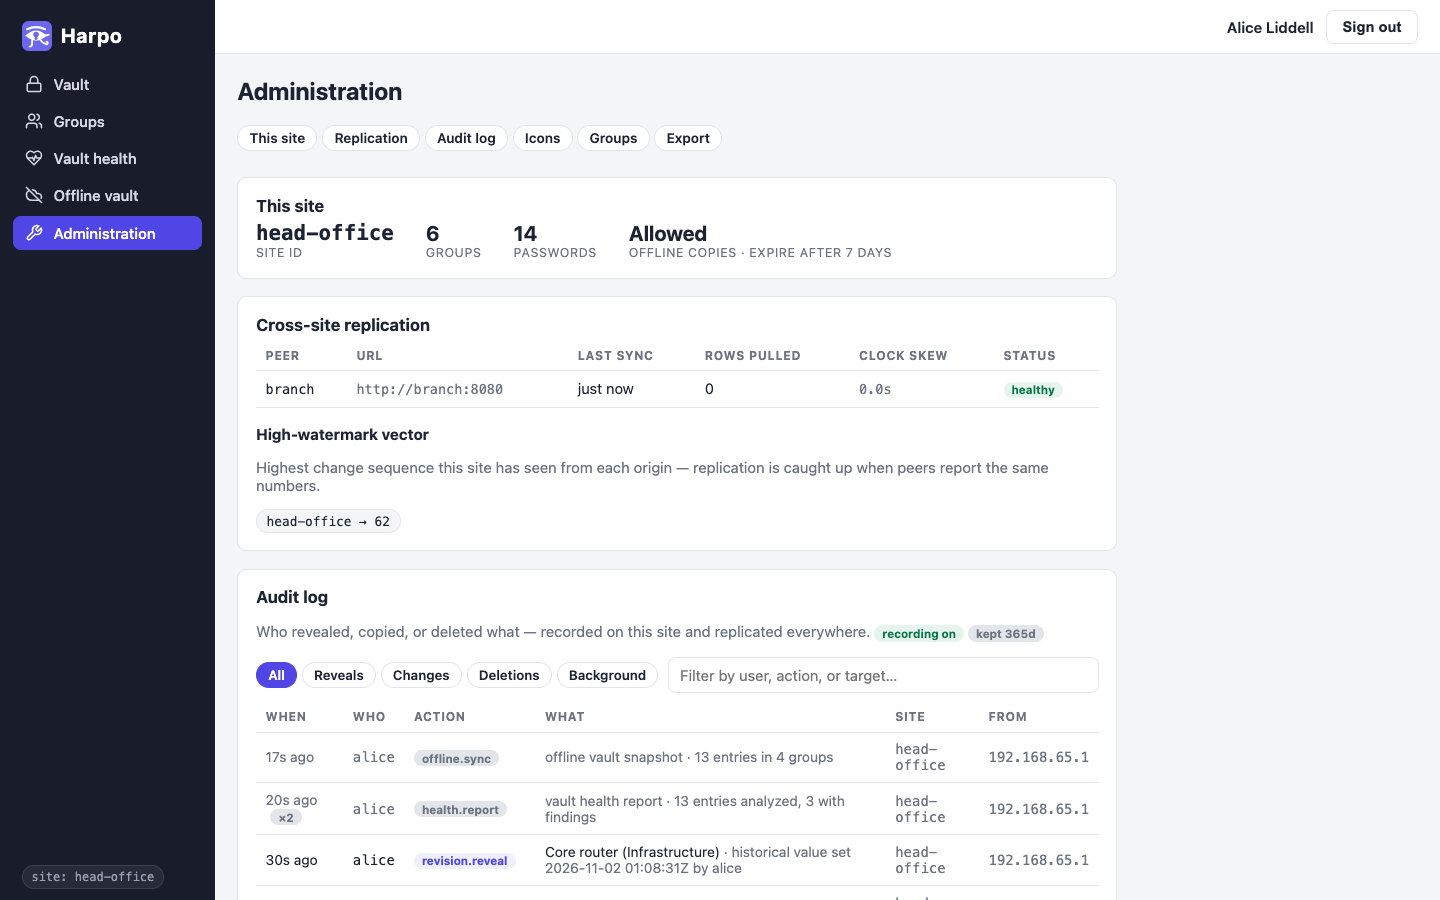
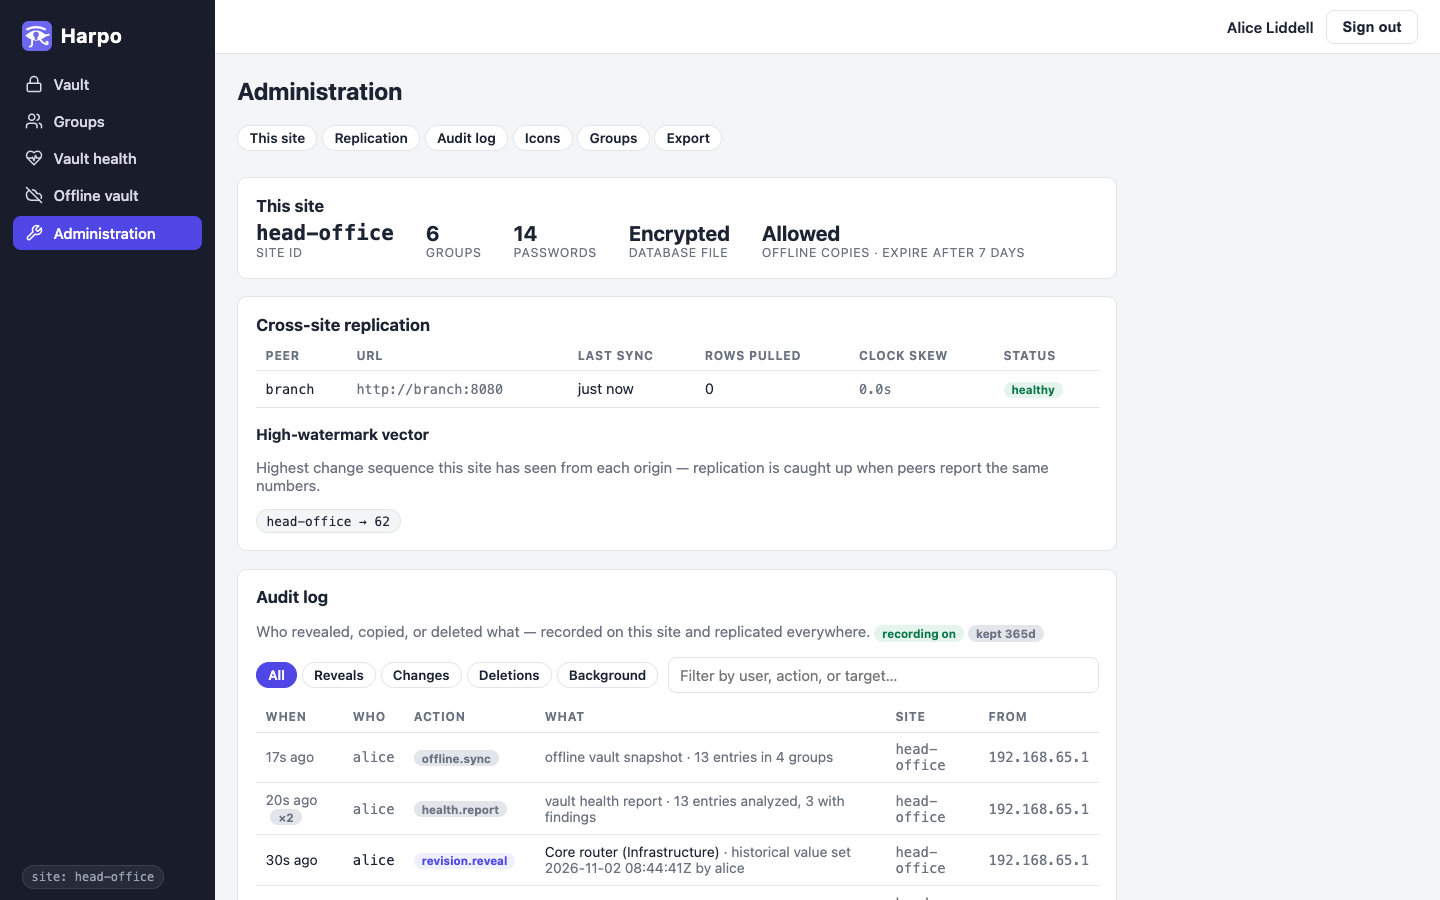
Show whether the database file is encrypted
A key that came through blank left a site unencrypted with nothing to show
for it, and the only way to check was to look at the file. Harpo now logs the
state on every start, warns when a key was supplied but is blank, and shows
the state on the Administration page, read from the file itself.

A full disk during encryption now gives a clear message and removes the
partial copy. sqlcipher_export reports it as a generic error 1, so it is
recognised by SQLite's text as well as by the code.

The README also covers the free space needed, how to check, and that turning
encryption on later does not reach older backups or disk blocks.

Changed region(s): [[0.4375, 0.2489, 0.5938, 0.3111], [0.4375, 0.9333, 0.5312, 0.9956], [0.375, 0.9333, 0.4062, 0.9644]]

diff --git a/tests/e2e/ui.e2e.js b/tests/e2e/ui.e2e.js
@@ -613,6 +613,8 @@ async function groupId(page) {
             nav: [...document.querySelectorAll(".section-nav a")].map((a) => a.getAttribute("href").split("#")[1]),
             sticky: getComputedStyle(document.querySelector(".section-nav")).position,
             offline: document.querySelector("#site .stat:last-child")?.textContent.replace(/\s+/g, " ").trim(),
+            dbFile: [...document.querySelectorAll("#site .stat")].map((s) => s.textContent.replace(/\s+/g, " ").trim())
+                .find((t) => t.includes("database file")),
             chips: [...document.querySelectorAll(".filter-chips .chip")].map((c) => c.textContent.trim()).join(","),
             folded: document.querySelectorAll(".audit-repeat").length,
             deletedShown: [...document.querySelectorAll("section.panel")]
@@ -622,6 +624,7 @@ async function groupId(page) {
             admin.nav.length === 6 && admin.nav.includes("export") && admin.sticky === "sticky"
             && await page.evaluate((ids) => ids.every((i) => document.getElementById(i)), admin.nav), admin.nav.join(","));
         check("offline stat is spelled out", /^(Allowed offline copies · expire after \d+ days|Off offline copies)$/.test(admin.offline || ""), String(admin.offline));
+        check("database file encryption is shown", /^(Encrypted database file|Not encrypted database file · passwords are still encrypted)$/.test(admin.dbFile || ""), String(admin.dbFile));
         check("audit log folds repeated events and offers categories",
             admin.chips === "All,Reveals,Changes,Deletions,Background" && admin.folded > 0, `${admin.chips}; folded rows: ${admin.folded}`);
         check("deleted groups list is capped", admin.deletedShown <= 5, `shown: ${admin.deletedShown}`);

diff --git a/src/Harpo/Data/DbEncryption.cs b/src/Harpo/Data/DbEncryption.cs
@@ -5,12 +5,22 @@ namespace Harpo.Data;
 public sealed record DbEncryptionOptions(
     string? DatabaseKey,
     string? PreviousDatabaseKey,
-    bool RemoveEncryption)
+    bool RemoveEncryption,
+    bool KeyLeftBlank = false)
 {
     public static DbEncryptionOptions FromConfiguration(IConfiguration configuration) => new(
         Nullify(configuration["Harpo:DatabaseKey"]),
         Nullify(configuration["Harpo:PreviousDatabaseKey"]),
-        configuration.GetValue("Harpo:RemoveDatabaseEncryption", false));
+        configuration.GetValue("Harpo:RemoveDatabaseEncryption", false),
+        IsKeyLeftBlank(configuration));
+
+    // appsettings.json ships a blank key, so a blank value alone means nothing. It
+    // is a mistake only when someone supplied it: "${HARPO_DATABASE_KEY}" with the
+    // variable unset, or an empty secret file.
+    private static bool IsKeyLeftBlank(IConfiguration configuration) =>
+        string.IsNullOrWhiteSpace(configuration["Harpo:DatabaseKey"])
+        && (Environment.GetEnvironmentVariable("Harpo__DatabaseKey") is not null
+            || !string.IsNullOrWhiteSpace(configuration["Harpo:DatabaseKey:File"]));
 
     private static string? Nullify(string? value) =>
         string.IsNullOrWhiteSpace(value) ? null : value;
@@ -39,6 +49,8 @@ public sealed record DbEncryptionOptions(
 /// </summary>
 public static class DbEncryption
 {
+    private const int SqliteFull = 13;
+
     private static readonly byte[] PlainHeader = "SQLite format 3\0"u8.ToArray();
 
     /// <summary>Returns the connection string the app should actually use (adds Password when encrypting).</summary>
@@ -120,10 +132,50 @@ public static class DbEncryption
                 : ", and neither does Harpo:PreviousDatabaseKey."));
     }
 
+    /// <summary>
+    /// What the file on disk actually is, read from the file rather than taken from
+    /// the configuration. Null when there is no file to look at.
+    /// </summary>
+    public static async Task<bool?> IsEncryptedAsync(string rawConnectionString)
+    {
+        var path = new SqliteConnectionStringBuilder(rawConnectionString).DataSource;
+        if (string.IsNullOrEmpty(path) || path == ":memory:" || !File.Exists(path))
+        {
+            return null;
+        }
+        return !await IsPlaintextAsync(path);
+    }
+
+    /// <summary>
+    /// Says on every start whether the file is encrypted. Without this, a key that
+    /// came through blank leaves the site unencrypted with nothing to show for it.
+    /// </summary>
+    public static async Task LogStateAsync(string rawConnectionString, DbEncryptionOptions options, ILogger logger)
+    {
+        switch (await IsEncryptedAsync(rawConnectionString))
+        {
+            case true:
+                logger.LogInformation("The database file is encrypted (SQLCipher).");
+                break;
+            case false when options.KeyLeftBlank:
+                logger.LogWarning(
+                    "The database file is NOT encrypted: Harpo:DatabaseKey was supplied but is blank, so no key " +
+                    "was applied. If you meant to encrypt the file, check the variable or secret it comes from.");
+                break;
+            case false:
+                logger.LogInformation(
+                    "The database file is not encrypted ({Reason}). Passwords, 2FA secrets and notes are still " +
+                    "encrypted under the master key; entry names, URLs and usernames are readable in the file.",
+                    options.RemoveEncryption ? "Harpo:RemoveDatabaseEncryption is set" : "Harpo:DatabaseKey is not set");
+                break;
+        }
+    }
+
     /// <summary>An unencrypted SQLite file starts with the magic header; SQLCipher files look random.</summary>
     public static async Task<bool> IsPlaintextAsync(string path)
     {
-        await using var stream = File.OpenRead(path);
+        // Also read while the app runs, so it must not get in the way of SQLite.
+        await using var stream = new FileStream(path, FileMode.Open, FileAccess.Read, FileShare.ReadWrite | FileShare.Delete);
         if (stream.Length == 0)
         {
             return true;
@@ -162,32 +214,45 @@ public static class DbEncryption
     private static async Task ExportAsync(string path, string? sourceKey, string? targetKey)
     {
         var tempPath = path + ".recrypt-tmp";
-        foreach (var stale in new[] { tempPath, tempPath + "-wal", tempPath + "-shm" })
-        {
-            File.Delete(stale);
-        }
+        DeleteWithSidecars(tempPath);
 
         var sourceCs = new SqliteConnectionStringBuilder { DataSource = path, Password = sourceKey ?? "" }.ToString();
-        await using (var connection = new SqliteConnection(sourceCs))
+        try
         {
-            await connection.OpenAsync();
-            await using (var attach = connection.CreateCommand())
+            await using (var connection = new SqliteConnection(sourceCs))
             {
-                attach.CommandText = "ATTACH DATABASE $path AS target KEY $key";
-                attach.Parameters.AddWithValue("$path", tempPath);
-                attach.Parameters.AddWithValue("$key", targetKey ?? "");
-                await attach.ExecuteNonQueryAsync();
+                await connection.OpenAsync();
+                await using (var attach = connection.CreateCommand())
+                {
+                    attach.CommandText = "ATTACH DATABASE $path AS target KEY $key";
+                    attach.Parameters.AddWithValue("$path", tempPath);
+                    attach.Parameters.AddWithValue("$key", targetKey ?? "");
+                    await attach.ExecuteNonQueryAsync();
+                }
+                await using (var export = connection.CreateCommand())
+                {
+                    export.CommandText = "SELECT sqlcipher_export('target')";
+                    await export.ExecuteScalarAsync();
+                }
+                await using (var detach = connection.CreateCommand())
+                {
+                    detach.CommandText = "DETACH DATABASE target";
+                    await detach.ExecuteNonQueryAsync();
+                }
             }
-            await using (var export = connection.CreateCommand())
+        }
+        catch (Exception ex)
+        {
+            // The original still holds everything (closing may fold its WAL in, which
+            // changes no data). A half-written copy only takes up space, and when
+            // decrypting it holds plaintext, so it must not stay.
+            SqliteConnection.ClearAllPools();
+            DeleteWithSidecars(tempPath);
+            if (IsDiskFull(ex))
             {
-                export.CommandText = "SELECT sqlcipher_export('target')";
-                await export.ExecuteScalarAsync();
+                throw new InvalidOperationException(DiskFullMessage(path, targetKey is null ? "decrypt" : "encrypt"), ex);
             }
-            await using (var detach = connection.CreateCommand())
-            {
-                detach.CommandText = "DETACH DATABASE target";
-                await detach.ExecuteNonQueryAsync();
-            }
+            throw;
         }
         SqliteConnection.ClearAllPools();
 
@@ -198,6 +263,28 @@ public static class DbEncryption
         File.Move(tempPath, path, overwrite: true);
         File.Delete(tempPath + "-wal");
         File.Delete(tempPath + "-shm");
+    }
+
+    private static void DeleteWithSidecars(string path)
+    {
+        File.Delete(path);
+        File.Delete(path + "-wal");
+        File.Delete(path + "-shm");
+    }
+
+    // sqlcipher_export passes the failure on as a generic error 1, keeping only
+    // SQLite's text for it, so the code alone does not catch it.
+    private static bool IsDiskFull(Exception ex) =>
+        ex is SqliteException sqlite
+        && (sqlite.SqliteErrorCode == SqliteFull || sqlite.Message.Contains("database or disk is full", StringComparison.Ordinal));
+
+    private static string DiskFullMessage(string path, string verb)
+    {
+        var bytes = new FileInfo(path).Length + (File.Exists(path + "-wal") ? new FileInfo(path + "-wal").Length : 0);
+        var megabytes = Math.Ceiling(bytes / (1024d * 1024d));
+        return $"There is not enough free disk space to {verb} the database at '{path}'. Harpo writes a second copy " +
+            $"of the file first, which needs about {megabytes:0} MB free on that volume. Nothing has been lost and " +
+            "the file is as it was. Free up some space and start Harpo again.";
     }
 
     private static async Task RekeyAsync(string path, string oldKey, string newKey)
@@ -217,4 +304,17 @@ public static class DbEncryption
         }
         SqliteConnection.ClearAllPools();
     }
+}
+
+/// <summary>Lets the Administration page show what the database file is.</summary>
+public sealed class DbEncryptionStatus
+{
+    private readonly string _rawConnectionString;
+
+    public DbEncryptionStatus(string rawConnectionString)
+    {
+        _rawConnectionString = rawConnectionString;
+    }
+
+    public Task<bool?> IsEncryptedAsync() => DbEncryption.IsEncryptedAsync(_rawConnectionString);
 }

diff --git a/tests/Harpo.Tests/DbEncryptionTests.cs b/tests/Harpo.Tests/DbEncryptionTests.cs
@@ -1,6 +1,8 @@
 using Harpo.Data;
 using Microsoft.Data.Sqlite;
 using Microsoft.EntityFrameworkCore;
+using Microsoft.Extensions.Configuration;
+using Microsoft.Extensions.Logging;
 using Microsoft.Extensions.Logging.Abstractions;
 using Microsoft.Extensions.Options;
 
@@ -139,5 +141,92 @@ public class DbEncryptionTests : IDisposable
         // Running again with the same key is a no-op, not an error.
         await DbEncryption.EnsureEncryptionStateAsync(RawCs, options, NullLogger.Instance);
         Assert.Equal(1, await CountGroupsAsync(DbEncryption.ApplyKey(RawCs, options)));
+    }
+
+    [Fact]
+    public async Task Reports_what_the_file_on_disk_is()
+    {
+        Assert.Null(await DbEncryption.IsEncryptedAsync(RawCs)); // no file yet
+        Assert.Null(await DbEncryption.IsEncryptedAsync("Data Source=:memory:"));
+
+        await SeedAsync(RawCs);
+        Assert.False(await DbEncryption.IsEncryptedAsync(RawCs));
+
+        // Asked with the raw connection string, as the app does: the key plays no part.
+        await DbEncryption.EnsureEncryptionStateAsync(RawCs, new DbEncryptionOptions("key-1", null, false), NullLogger.Instance);
+        Assert.True(await DbEncryption.IsEncryptedAsync(RawCs));
+        Assert.True(await new DbEncryptionStatus(RawCs).IsEncryptedAsync());
+    }
+
+    [Fact]
+    public async Task Start_log_says_whether_the_file_is_encrypted()
+    {
+        await SeedAsync(RawCs);
+        var plain = new RecordingLogger();
+        await DbEncryption.LogStateAsync(RawCs, new DbEncryptionOptions(null, null, false), plain);
+        var line = Assert.Single(plain.Lines);
+        Assert.Equal(LogLevel.Information, line.Level);
+        Assert.Contains("not encrypted (Harpo:DatabaseKey is not set)", line.Message);
+
+        var blank = new RecordingLogger();
+        await DbEncryption.LogStateAsync(RawCs, new DbEncryptionOptions(null, null, false, KeyLeftBlank: true), blank);
+        line = Assert.Single(blank.Lines);
+        Assert.Equal(LogLevel.Warning, line.Level);
+        Assert.Contains("NOT encrypted", line.Message);
+        Assert.Contains("blank", line.Message);
+
+        var options = new DbEncryptionOptions("key-1", null, false);
+        await DbEncryption.EnsureEncryptionStateAsync(RawCs, options, NullLogger.Instance);
+        var encrypted = new RecordingLogger();
+        await DbEncryption.LogStateAsync(RawCs, options, encrypted);
+        line = Assert.Single(encrypted.Lines);
+        Assert.Equal(LogLevel.Information, line.Level);
+        Assert.Contains("is encrypted", line.Message);
+    }
+
+    [Fact]
+    public void A_key_counts_as_left_blank_only_when_someone_supplied_it()
+    {
+        static DbEncryptionOptions From(params (string Key, string? Value)[] settings) =>
+            DbEncryptionOptions.FromConfiguration(new ConfigurationBuilder()
+                .AddInMemoryCollection(settings.Select(s => new KeyValuePair<string, string?>(s.Key, s.Value)))
+                .Build());
+
+        // The blank that appsettings.json ships with is not a mistake.
+        Assert.False(From(("Harpo:DatabaseKey", "")).KeyLeftBlank);
+        Assert.False(From(("Harpo:DatabaseKey", "key-1")).KeyLeftBlank);
+        Assert.False(From(("Harpo:DatabaseKey", "key-1"), ("Harpo:DatabaseKey:File", "/run/secrets/key")).KeyLeftBlank);
+
+        // An empty secret file.
+        Assert.True(From(("Harpo:DatabaseKey", ""), ("Harpo:DatabaseKey:File", "/run/secrets/key")).KeyLeftBlank);
+    }
+
+    [Fact]
+    public async Task Failed_encryption_leaves_the_file_alone_and_no_partial_copy()
+    {
+        await SeedAsync(RawCs);
+
+        // Damage every page but the first, so the copy starts and then fails partway.
+        var bytes = await File.ReadAllBytesAsync(DbPath);
+        Array.Fill(bytes, (byte)0xFF, 4096, bytes.Length - 4096);
+        await File.WriteAllBytesAsync(DbPath, bytes);
+
+        await Assert.ThrowsAsync<SqliteException>(() =>
+            DbEncryption.EnsureEncryptionStateAsync(RawCs, new DbEncryptionOptions("key-1", null, false), NullLogger.Instance));
+
+        Assert.Equal(bytes, await File.ReadAllBytesAsync(DbPath));
+        Assert.Empty(Directory.GetFiles(_dir, "*.recrypt-tmp*"));
+    }
+
+    private sealed class RecordingLogger : ILogger
+    {
+        public List<(LogLevel Level, string Message)> Lines { get; } = [];
+
+        public IDisposable? BeginScope<TState>(TState state) where TState : notnull => null;
+
+        public bool IsEnabled(LogLevel logLevel) => true;
+
+        public void Log<TState>(LogLevel logLevel, EventId eventId, TState state, Exception? exception, Func<TState, Exception?, string> formatter) =>
+            Lines.Add((logLevel, formatter(state, exception)));
     }
 }

diff --git a/src/Harpo/Program.cs b/src/Harpo/Program.cs
@@ -46,6 +46,7 @@ builder.Services.Configure<LoginThrottleOptions>(builder.Configuration.GetSectio
 var rawConnectionString = builder.Configuration.GetConnectionString("Harpo") ?? "Data Source=harpo.db";
 var dbEncryption = DbEncryptionOptions.FromConfiguration(builder.Configuration);
 var connectionString = DbEncryption.ApplyKey(rawConnectionString, dbEncryption);
+builder.Services.AddSingleton(new DbEncryptionStatus(rawConnectionString));
 builder.Services.AddDbContextFactory<HarpoDbContext>(options => options.UseSqlite(connectionString));
 builder.Services.AddSingleton(TimeProvider.System);
 
@@ -163,6 +164,7 @@ if (devAuth)
 await DbEncryption.EnsureEncryptionStateAsync(rawConnectionString, dbEncryption, app.Logger);
 await DbInitializer.InitializeAsync(
     app.Services.GetRequiredService<IDbContextFactory<HarpoDbContext>>(), connectionString, app.Logger);
+await DbEncryption.LogStateAsync(rawConnectionString, dbEncryption, app.Logger);
 await Harpo.Replication.UpgradeResync.EnsureAsync(
     app.Services.GetRequiredService<IDbContextFactory<HarpoDbContext>>(), app.Logger);
 

diff --git a/README.md b/README.md
@@ -436,7 +436,15 @@ Harpo__DatabaseKey: "…per-site secret…"
 
 - **Existing databases are migrated automatically**: on the next start Harpo
   detects a plaintext file and encrypts it in place (and cleans up the WAL
-  sidecar files, which would otherwise still hold plaintext pages).
+  sidecar files, which would otherwise still hold plaintext pages). This writes
+  a second copy of the file first, so it needs about the database's size free
+  on the volume. If there isn't enough, Harpo stops with a clear error and leaves
+  the database as it was.
+- **Check that it worked** in the **This site** panel of the Administration page,
+  which reads the file itself, or in the log, where Harpo says on every start
+  whether the file is encrypted. A key that arrives blank (for example
+  `${HARPO_DATABASE_KEY}` with the variable unset) counts as no key: the file
+  stays unencrypted and the log carries a warning.
 - The key is **per-site** — unlike the master key it does not need to match
   other sites, and replication is completely unaffected.
 - **Rotate keys** by setting `Harpo__PreviousDatabaseKey` to the old key next
@@ -450,7 +458,10 @@ Harpo__DatabaseKey: "…per-site secret…"
 Be clear about what this buys: it protects *copied files* — stolen volumes,
 disk images, careless backups. An attacker on the live host can read the key
 from the container environment, exactly like the master key. It is defence in
-depth, not a new trust boundary. (Implementation: the bundled SQLite is the
+depth, not a new trust boundary. It also only covers the file from now on:
+turning it on later does not reach older backups or disk snapshots, or the blocks
+of the old plaintext file left on the disk, so replace or destroy those if they
+matter. (Implementation: the bundled SQLite is the
 SQLCipher community build, which behaves identically to stock SQLite when no
 key is configured.)
 

diff --git a/docs/user-manual.md b/docs/user-manual.md
@@ -489,8 +489,11 @@ the title jump to its sections.
 ![The Administration page](manual/admin.png)
 
 **This site** shows the site's name, how many groups and passwords it holds,
-and whether offline copies are allowed and for how long. If the master key is
-being rotated, a notice says so.
+whether the database file is encrypted, and whether offline copies are allowed
+and for how long. "Not encrypted" refers to the file as a whole: passwords, 2FA
+secrets and notes are always encrypted, but entry names, URLs and usernames can
+be read by anyone who gets a copy of it. If the master key is being rotated, a
+notice says so.
 
 **Cross-site replication** appears when your organisation runs Harpo in more
 than one location. It lists the other sites, when each was last reached, and

diff --git a/docs/dotnet-11-migration.md b/docs/dotnet-11-migration.md
@@ -86,7 +86,7 @@ Sub-agent sized work; a worktree; stage explicit paths. Uses GA packages.
 2. Rewrite `DbEncryption` per D2/D3: connection string becomes a `file:` URI
    with `cipher=sqlcipher&legacy=4` plus `Password`; encrypt-in-place and
    decrypt through `PRAGMA rekey`; wrong-key detection keeps reading
-   `sqlite_master`. Update the seven `DbEncryptionTests` and add two:
+   `sqlite_master`. Update the `DbEncryptionTests` and add two:
    *a file encrypted by the old SQLCipher build opens*, and *a file written by
    SQLite3MC opens in the old build* (interop both ways; the second needs a
    small .NET 10 helper project, or the `sqlcipher` CLI from Homebrew, and
